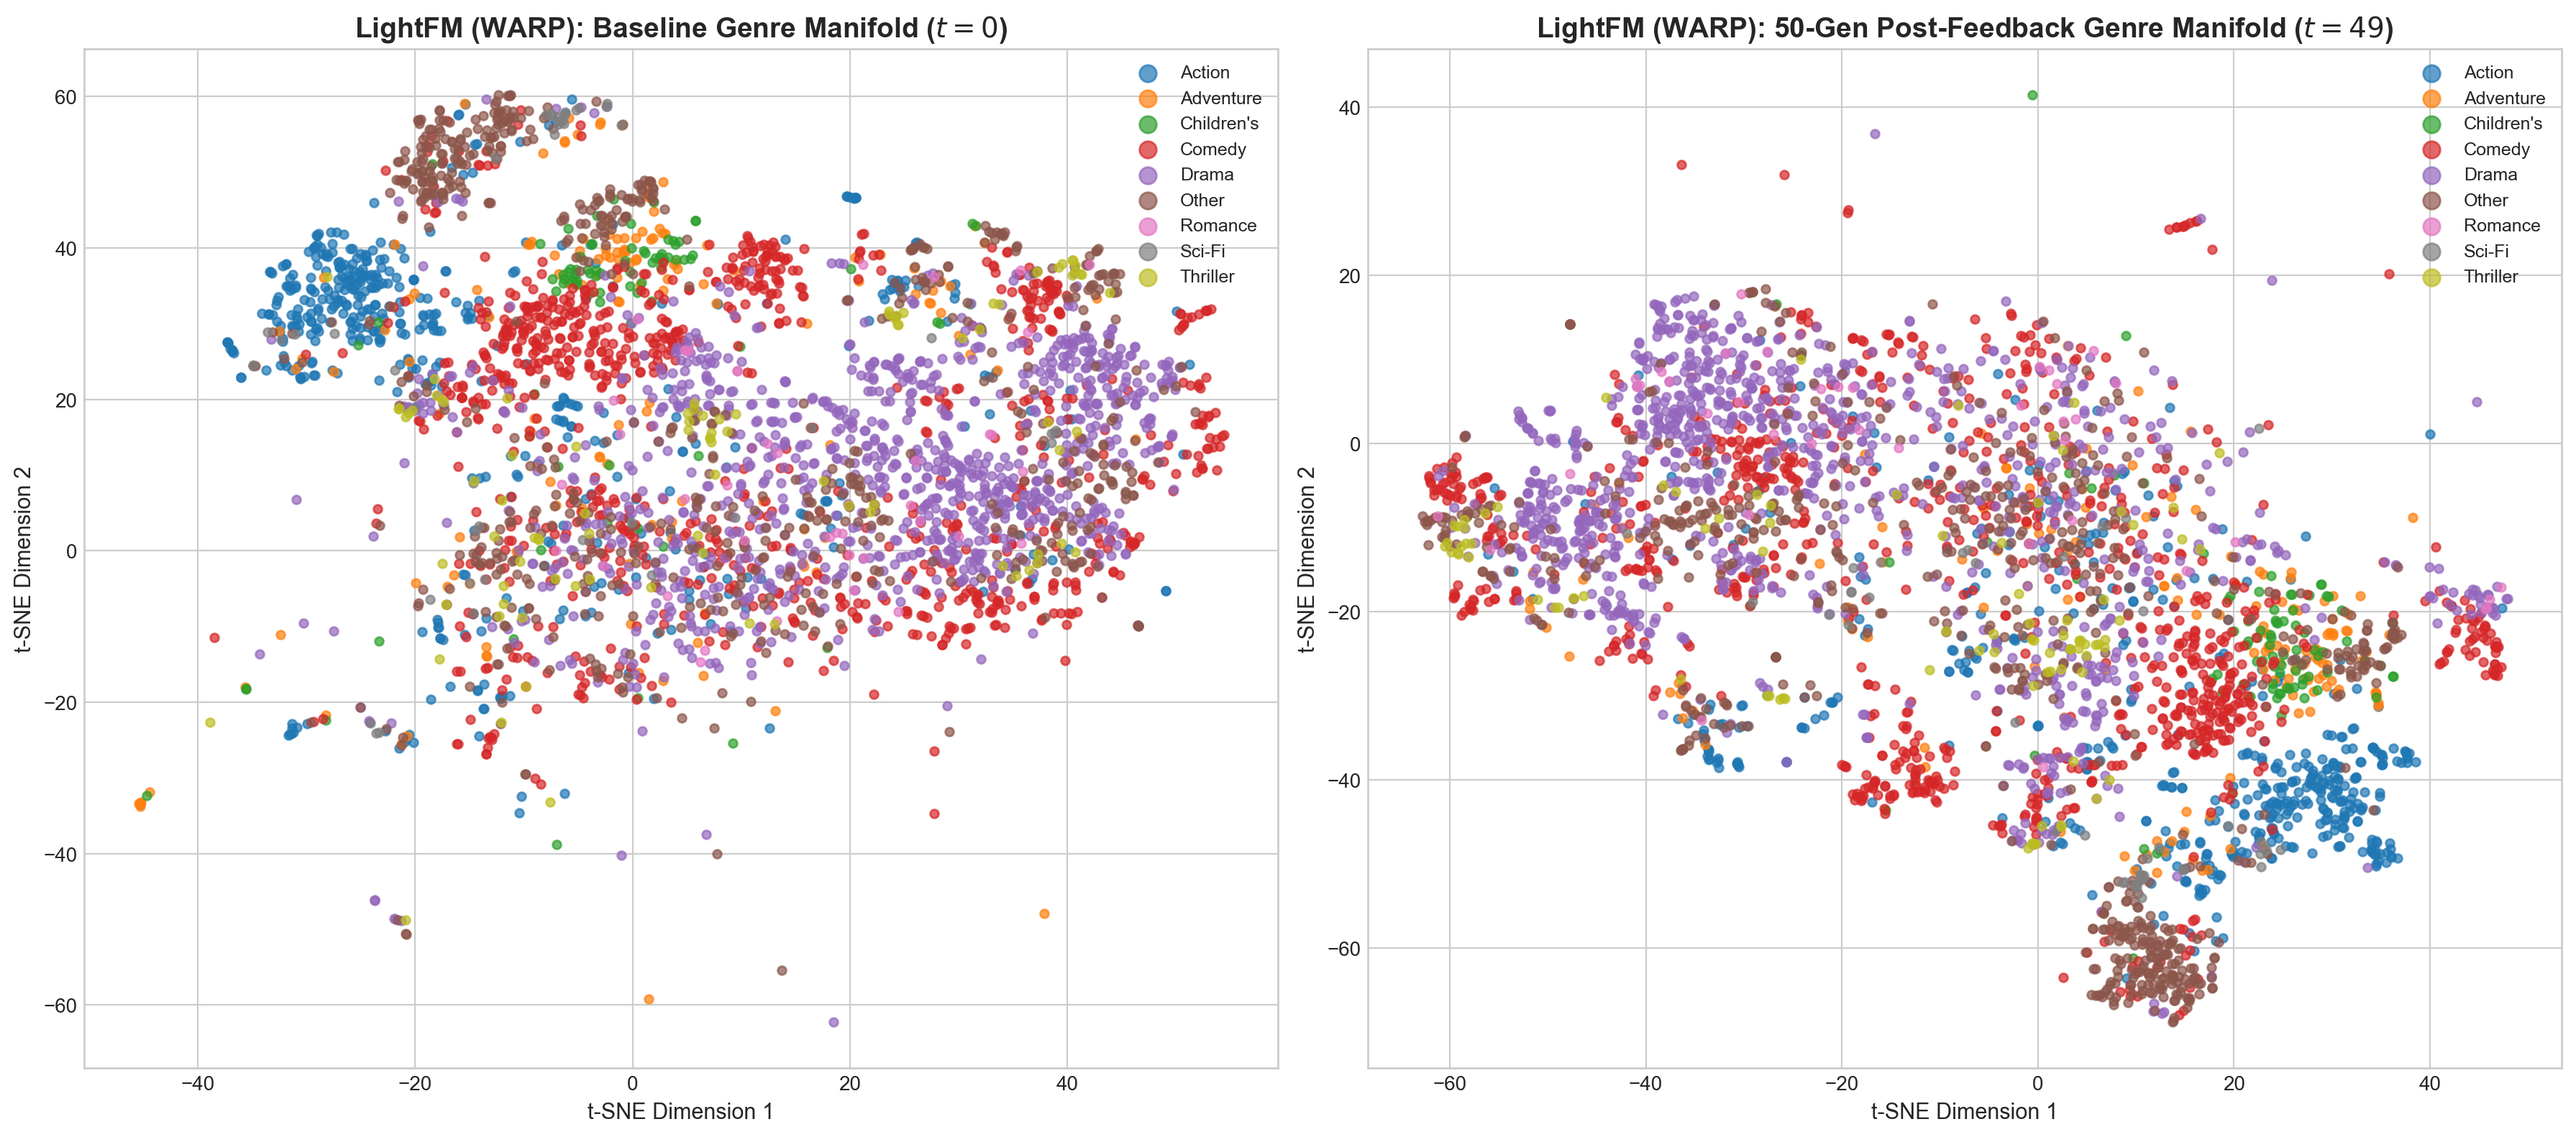
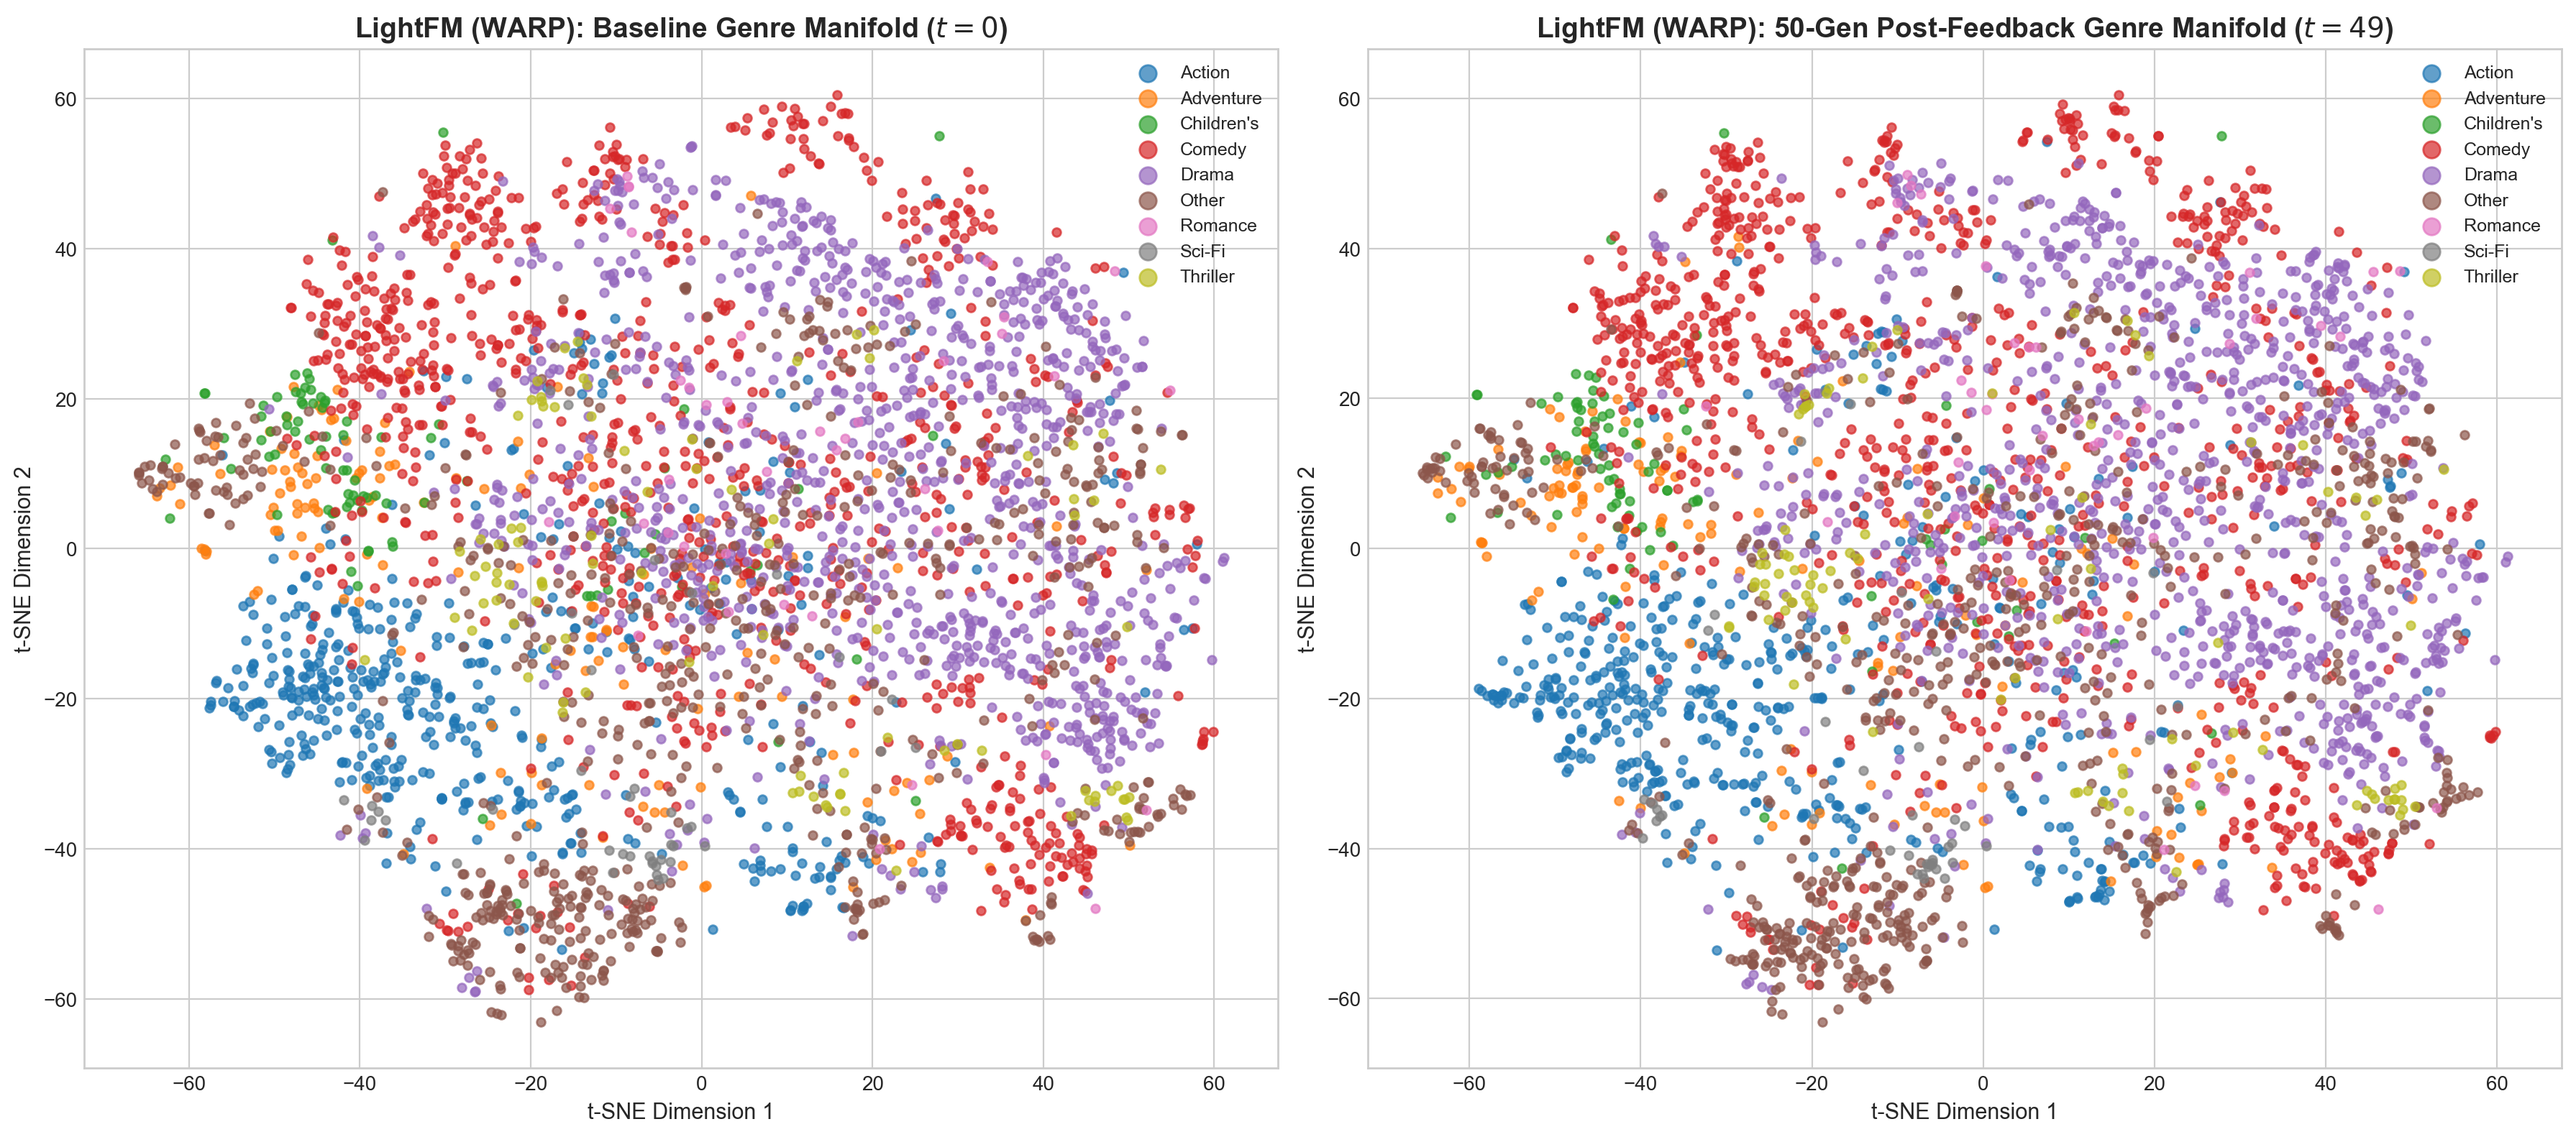
feat(phase6): synchronize embedding drift trajectory GIF to joint t-SNE coordinate manifold

diff --git a/scripts/generate_lightfm_visuals.py b/scripts/generate_lightfm_visuals.py
@@ -126,42 +126,48 @@ def generate_tsne_manifold_plots(output_dir: str):
                 g_list = str(row["genres"]).split("|")
                 primary_genres[code] = g_list[0] if len(g_list) > 0 else "Other"
 
-    # 1. Train initial baseline t=0
-    print("[Phase 2] Training LightFM (WARP) Baseline at t=0...")
-    adapter_0 = LightFMAdapter(dim=32, loss="warp", epochs=5, learning_rate=0.005)
-    adapter_0.fit(train_mat, seed=42)
-    U_0, V_0 = adapter_0.get_embeddings()
-
-    # 2. Simulate 49 generations of closed feedback loop to obtain t=49
-    print("[Phase 3] Running 49 closed-loop generations to obtain t=49 state...")
-    D_t = train_mat.copy()
-    active_users = np.arange(n_users, dtype=np.int32)
-    U_star = U_0.copy()
-    V_star = V_0.copy()
-
-    for t in range(49):
-        recs = adapter_0.recommend(active_users, k=10, remove_seen=True)
-        pop_counts = np.asarray(D_t.sum(axis=0)).flatten()
-        u_clicks, i_clicks = simulate_user_clicks(
-            recs=recs,
-            U_star=U_star,
-            V_star=V_star,
-            pop_counts=pop_counts,
-            alpha=0.8,
-            tau=1.0,
-            seed=42 + t
-        )
-        D_t = merge_and_deduplicate(D_t, (u_clicks, i_clicks))
+    tsne_cache_path = "docs/benchmarks/lightfm_warp_tsne_2d.npy"
+    if os.path.exists(tsne_cache_path):
+        print(f"[Phase 2-4] Loading cached joint 2D t-SNE Projection from '{tsne_cache_path}'...")
+        joint_2d = np.load(tsne_cache_path)
+    else:
+        # 1. Train initial baseline t=0
+        print("[Phase 2] Training LightFM (WARP) Baseline at t=0...")
         adapter_0 = LightFMAdapter(dim=32, loss="warp", epochs=5, learning_rate=0.005)
-        adapter_0.fit(D_t, seed=42 + t + 1)
+        adapter_0.fit(train_mat, seed=42)
+        U_0, V_0 = adapter_0.get_embeddings()
 
-    U_49, V_49 = adapter_0.get_embeddings()
+        # 2. Simulate 49 generations of closed feedback loop to obtain t=49
+        print("[Phase 3] Running 49 closed-loop generations to obtain t=49 state...")
+        D_t = train_mat.copy()
+        active_users = np.arange(n_users, dtype=np.int32)
+        U_star = U_0.copy()
+        V_star = V_0.copy()
 
-    # 3. Compute Joint t-SNE 2D manifold projection
-    print("[Phase 4] Computing Joint 2D t-SNE Projection across (V_0, V_49)...")
-    joint_embeddings = np.vstack([V_0, V_49])
-    tsne = TSNE(n_components=2, perplexity=30, learning_rate="auto", init="pca", random_state=42)
-    joint_2d = tsne.fit_transform(joint_embeddings)
+        for t in range(49):
+            recs = adapter_0.recommend(active_users, k=10, remove_seen=True)
+            pop_counts = np.asarray(D_t.sum(axis=0)).flatten()
+            u_clicks, i_clicks = simulate_user_clicks(
+                recs=recs,
+                U_star=U_star,
+                V_star=V_star,
+                pop_counts=pop_counts,
+                alpha=0.8,
+                tau=1.0,
+                seed=42 + t
+            )
+            D_t = merge_and_deduplicate(D_t, (u_clicks, i_clicks))
+            adapter_0 = LightFMAdapter(dim=32, loss="warp", epochs=5, learning_rate=0.005)
+            adapter_0.fit(D_t, seed=42 + t + 1)
+
+        U_49, V_49 = adapter_0.get_embeddings()
+
+        # 3. Compute Joint t-SNE 2D manifold projection
+        print("[Phase 4] Computing Joint 2D t-SNE Projection across (V_0, V_49)...")
+        joint_embeddings = np.vstack([V_0, V_49])
+        tsne = TSNE(n_components=2, perplexity=30, learning_rate="auto", init="pca", random_state=42)
+        joint_2d = tsne.fit_transform(joint_embeddings)
+        np.save(tsne_cache_path, joint_2d)
 
     proj_0 = joint_2d[:n_items]
     proj_49 = joint_2d[n_items:]

diff --git a/scripts/generate_lightfm_gif.py b/scripts/generate_lightfm_gif.py
@@ -7,6 +7,7 @@ import scipy.sparse as sp
 import matplotlib.pyplot as plt
 from PIL import Image
 from sklearn.decomposition import PCA
+from sklearn.manifold import TSNE
 
 # Ensure root directory is on python path
 sys.path.insert(0, ".")
@@ -90,18 +91,33 @@ def main():
         np.save(cache_path, np.array(item_embeddings_history))
         print(f"[OK] Saved item embeddings cache to '{cache_path}'")
 
-    # 3. Project to shared 2D coordinate system using PCA fitted on baseline V_star
-    print("\n[Phase 3] Computing shared 2D coordinate projections...")
-    pca = PCA(n_components=2, random_state=42)
-    pca.fit(V_star)
+    # 3. Compute or load Joint 2D t-SNE coordinate projections
+    print("\n[Phase 3] Computing Joint 2D t-SNE coordinate projections...")
+    tsne_cache_path = "docs/benchmarks/lightfm_warp_tsne_2d.npy"
+    if os.path.exists(tsne_cache_path):
+        print(f"  * Loading cached joint t-SNE coordinates from '{tsne_cache_path}'...")
+        joint_2d = np.load(tsne_cache_path)
+    else:
+        joint_embeddings = np.vstack([item_embeddings_history[0], item_embeddings_history[-1]])
+        tsne = TSNE(n_components=2, perplexity=30, learning_rate="auto", init="pca", random_state=42)
+        joint_2d = tsne.fit_transform(joint_embeddings)
+        np.save(tsne_cache_path, joint_2d)
 
-    projections_2d = [pca.transform(V) for V in item_embeddings_history]
+    coords_0 = joint_2d[:n_items]
+    coords_49 = joint_2d[n_items:]
+
+    # Compute interpolated t-SNE positions across generations matching Phase 5 pattern
+    projections_2d = []
+    for t in range(T):
+        progress = t / (T - 1)
+        coords_curr = (1.0 - progress) * coords_0 + progress * coords_49
+        projections_2d.append(coords_curr)
 
     # Determine stable coordinate axes bounds across all generations
-    all_x = np.concatenate([p[:, 0] for p in projections_2d])
-    all_y = np.concatenate([p[:, 1] for p in projections_2d])
-    x_min, x_max = np.min(all_x) - 0.5, np.max(all_x) + 0.5
-    y_min, y_max = np.min(all_y) - 0.5, np.max(all_y) + 0.5
+    all_x = joint_2d[:, 0]
+    all_y = joint_2d[:, 1]
+    x_min, x_max = np.min(all_x) - 3.0, np.max(all_x) + 3.0
+    y_min, y_max = np.min(all_y) - 3.0, np.max(all_y) + 3.0
 
     # 4. Render animation frames
     print(f"\n[Phase 4] Rendering {T} animation frames...")
@@ -158,8 +174,8 @@ def main():
         ax_map.set_xlim(x_min, x_max)
         ax_map.set_ylim(y_min, y_max)
         ax_map.set_title(f"LightFM (WARP): 2D Latent Manifold Drift [Gen t = {t}]", fontsize=13, fontweight="bold")
-        ax_map.set_xlabel("Latent Principal Component 1", fontsize=10)
-        ax_map.set_ylabel("Latent Principal Component 2", fontsize=10)
+        ax_map.set_xlabel("t-SNE Dimension 1", fontsize=10)
+        ax_map.set_ylabel("t-SNE Dimension 2", fontsize=10)
         ax_map.legend(loc="upper right", frameon=True, fontsize=9)
         cbar = fig.colorbar(sc, ax=ax_map, orientation="horizontal", pad=0.1, fraction=0.045)
         cbar.set_label("Item Log-Popularity (Yellow = Head Hits, Purple = Tail)", fontsize=9)

diff --git a/docs/notes/phase6_lightfm.md b/docs/notes/phase6_lightfm.md
@@ -189,7 +189,7 @@ Density contraction in LightFM (WARP) is mild and bounded, proving that the late
 
 ![Dynamic Latent Trajectory GIF](../images/phase_6_lightfm/embedding_drift_trajectory.gif)
 
-*Figure 5: 50-frame animated GIF ($T=50$) tracking 2D embedding drift alongside live generation-by-generation measurements of Catalog Exposure Gini ($G$) and Effective Spectral Rank ($S_{\text{eff}}$).*
+*Figure 5: 50-frame animated GIF ($T=50$) tracking 2D joint t-SNE embedding drift alongside live generation-by-generation measurements of Catalog Exposure Gini ($G$) and Effective Spectral Rank ($S_{\text{eff}}$), directly matching the coordinate space of Figure 2.*
 
 ---
 
